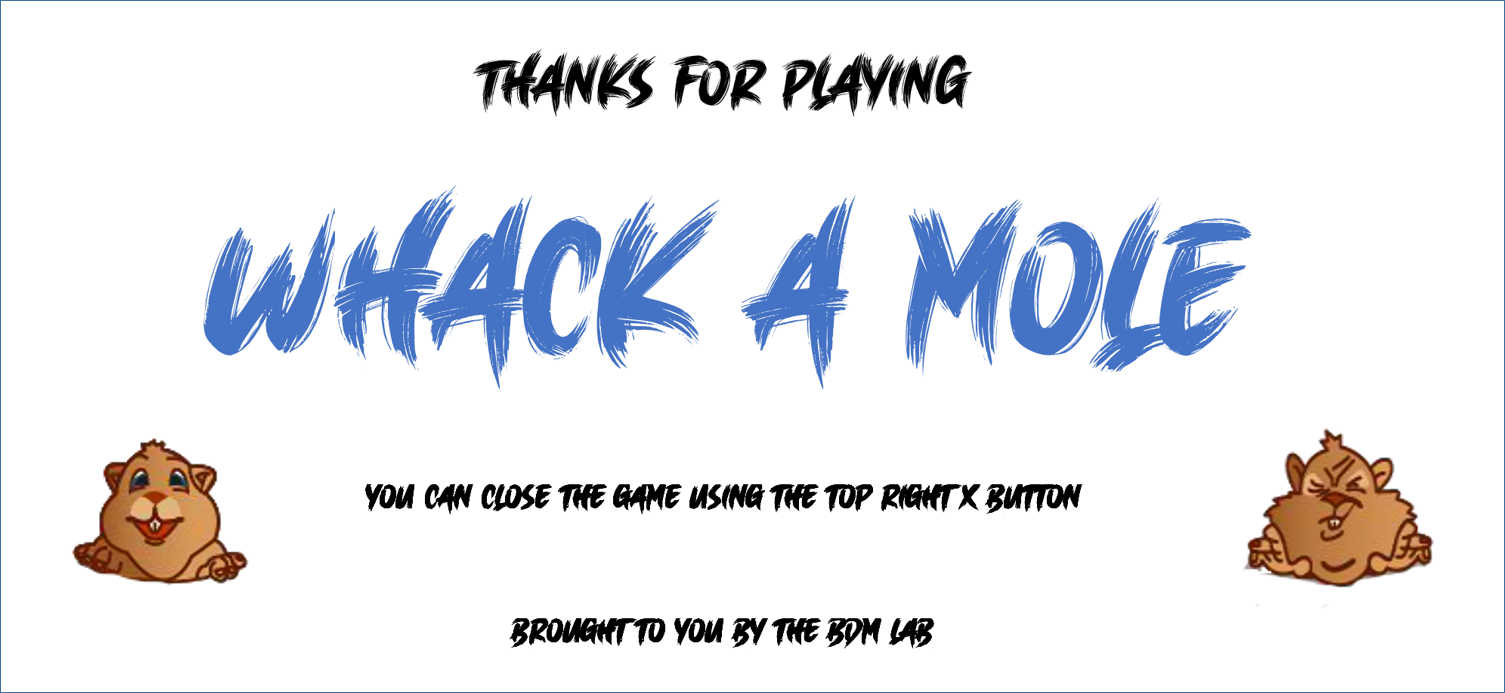
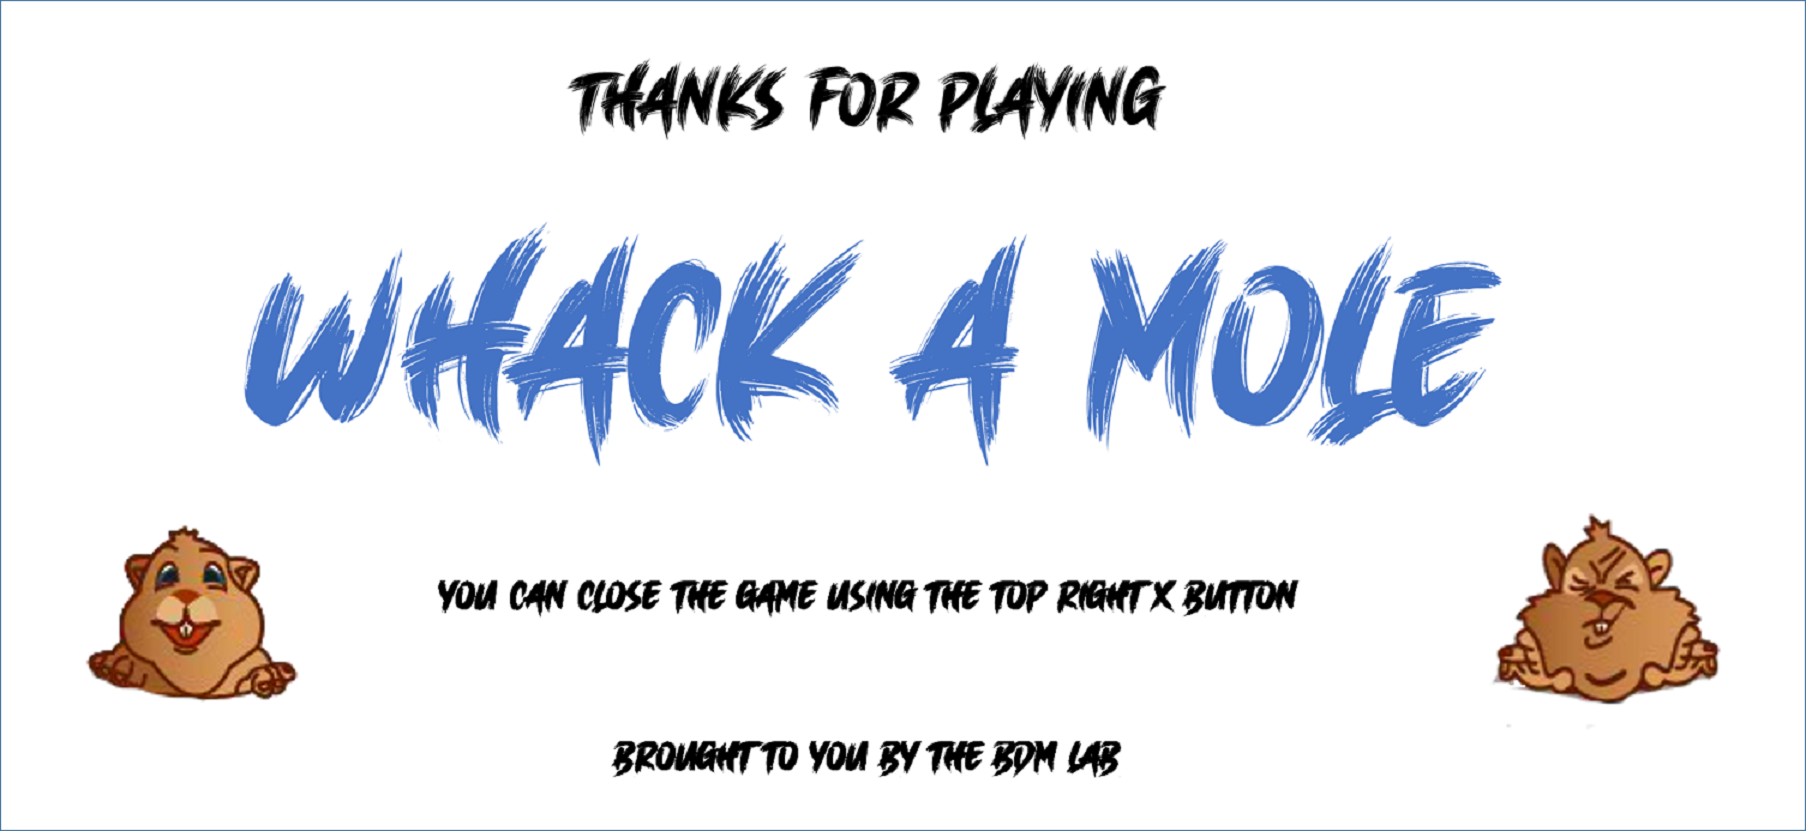
Visual Tweaks
Splash Screen, End Screen, rating text

diff --git a/wam/game.py b/wam/game.py
@@ -497,8 +497,8 @@ class GameManager:
             elif self.pause_reason == '2x2':
                     self.write_text(self.pause_reason_dict[self.pause_reason],
                                     background=(255,255,255),
-                                    location_y=650,#self.SCREEN_HEIGHT + 40,
-                                    location_x=1150)
+                                    location_y=800,#self.SCREEN_HEIGHT + 40,
+                                    location_x=1350)
                     self.two_by_two_rate()
                     self.show_big_score()
 
